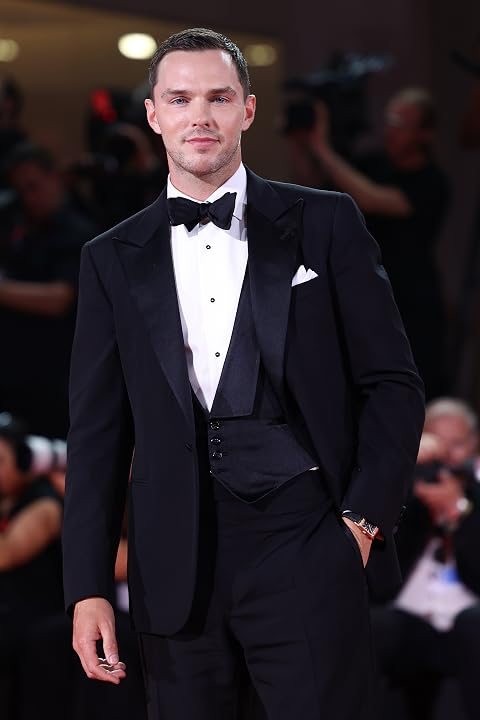
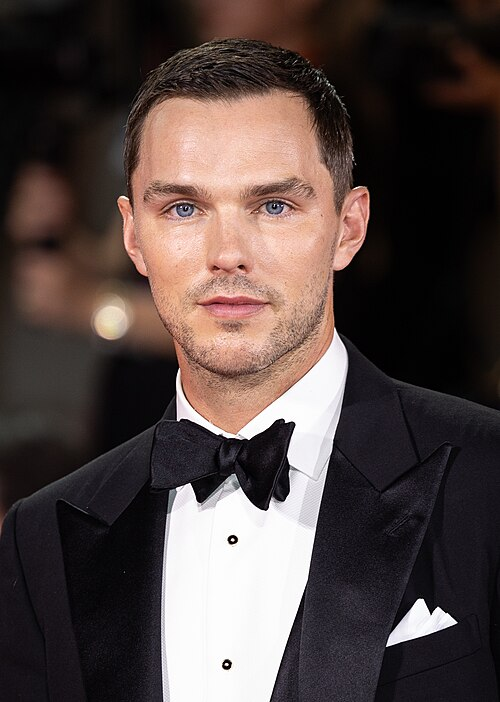
use headshots for missing and wider portraits

diff --git a/README.md b/README.md
@@ -254,7 +254,7 @@ The upstream boundary is confined to `src/imdb.mjs`, so a supported provider can
 | `src/store.mjs` | Daily scheduling, retries, deduplication, atomic persistence |
 | `src/page.mjs` | One small shared HTML layout with escaped source data |
 | `src/profiles.json` | Authored biographies, background information, known works, and reference links |
-| `src/profile-images.json` | Local image paths, dimensions, and IMDb provenance |
+| `src/profile-images.json` | Local image paths, dimensions, and source credits |
 | `src/server.mjs` | Public HTTP routes, cached feeds, ETags, response headers |
 | `public/style.css` | Shared layout, central colour palette, responsive, dark, and print styles |
 | `public/enhance.js` | Optional one-click address copying with accessible feedback |
@@ -268,7 +268,7 @@ The homepage has the combined subscription, three interest calendars, and an alp
 
 The central palette uses IMDb-inspired yellow accents, a dark header, and system light/dark preferences. Keyboard focus, skip navigation, and print and narrow-screen styles remain available. The copy script uses the browser Clipboard API. If it is unavailable, the visible address can be copied manually. A refused clipboard write selects the address and announces the fallback. CSP permits only the required same-origin stylesheet, script, and images, restricts framing and other unneeded resources, and responses include `X-Content-Type-Options: nosniff`.
 
-The 105 IMDb images were saved once into `public/images/`, with their original source URLs and dimensions recorded in `src/profile-images.json`. Pages never request image metadata or remote images at runtime. Matthew Judge, Kevan Brighting, Hamish Parkinson, Sam Houser, Seán McLoughlin, and Isack Hadjar had no suitable individual portrait when checked and use a labelled neutral placeholder. To replace an image, save the new local asset and update its manifest entry. Keep the provenance URL and accurate dimensions. `src/profiles.json` contains brief original summaries based on established work, with direct references and no automatic biography updates.
+The 111 images are saved in `public/images/`, with their source URLs and dimensions recorded in `src/profile-images.json`. People use single-person headshots or portraits framed around the head and shoulders. Keep suitable portraits when updating the collection, and replace missing pictures or wider shots selectively. Use an existing source portrait rendition where available. IMDb, official profiles, agency pages, and Wikimedia Commons provide the saved photos. Commons images retain their photographer and licence credits in the manifest and on the profile page. Pages never request image metadata or remote images at runtime. To replace an image, save the new local asset and update its manifest entry with the source URL, accurate dimensions, and any required credit. `src/profiles.json` contains brief original summaries based on established work, with direct references and no automatic biography updates.
 
 The project check validates all 111 source pages as well as homepage loading, ready, saved-data, and error states in both time modes. It checks local navigation and assets, source coverage, image dimensions, accessible address labels, copy targets, and byte budgets. Tests also cover copying success and failure, source-specific release lists, canonical page redirects, and existing feed behaviour.
 
